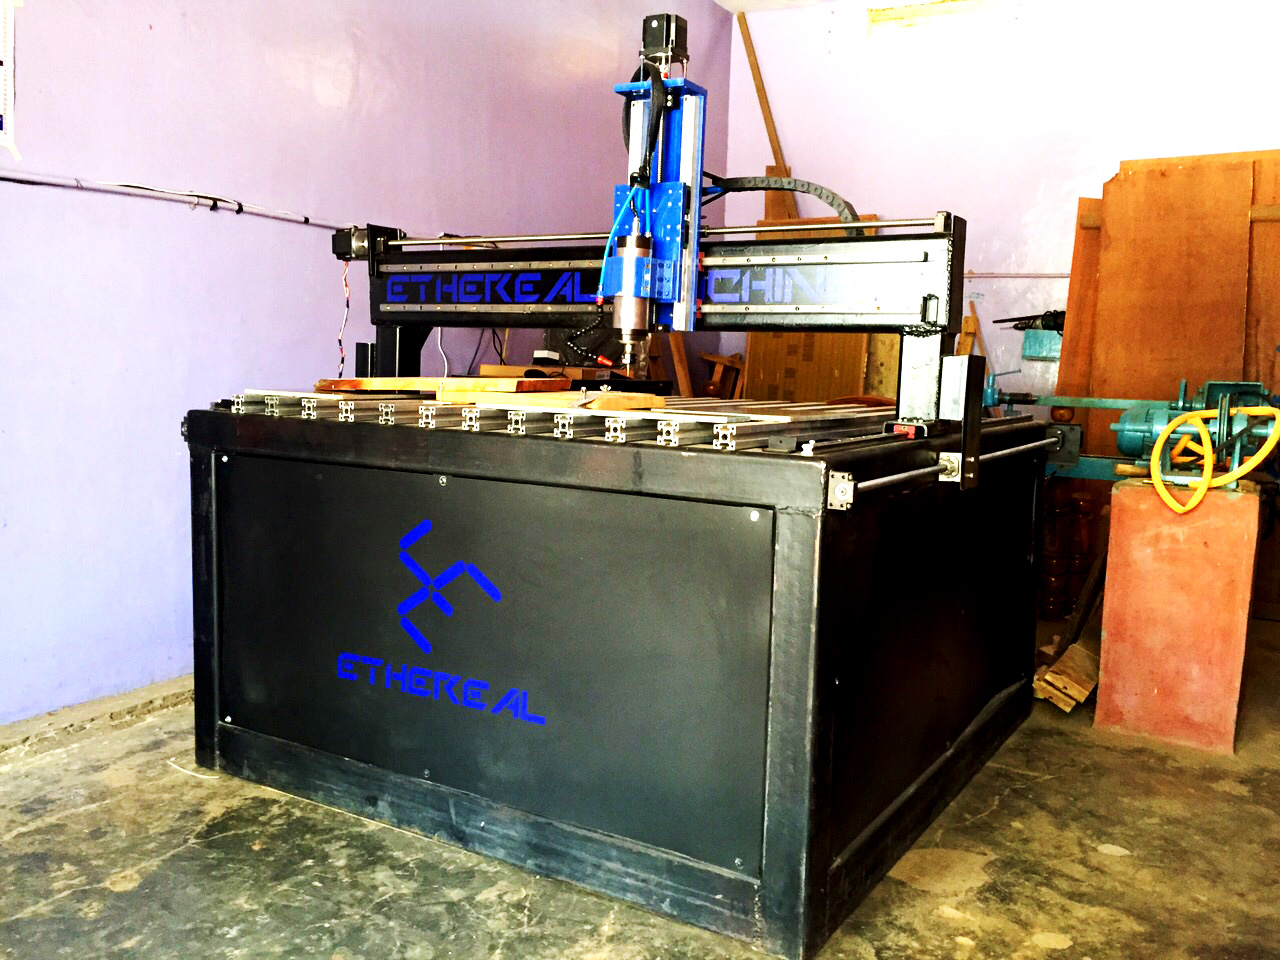
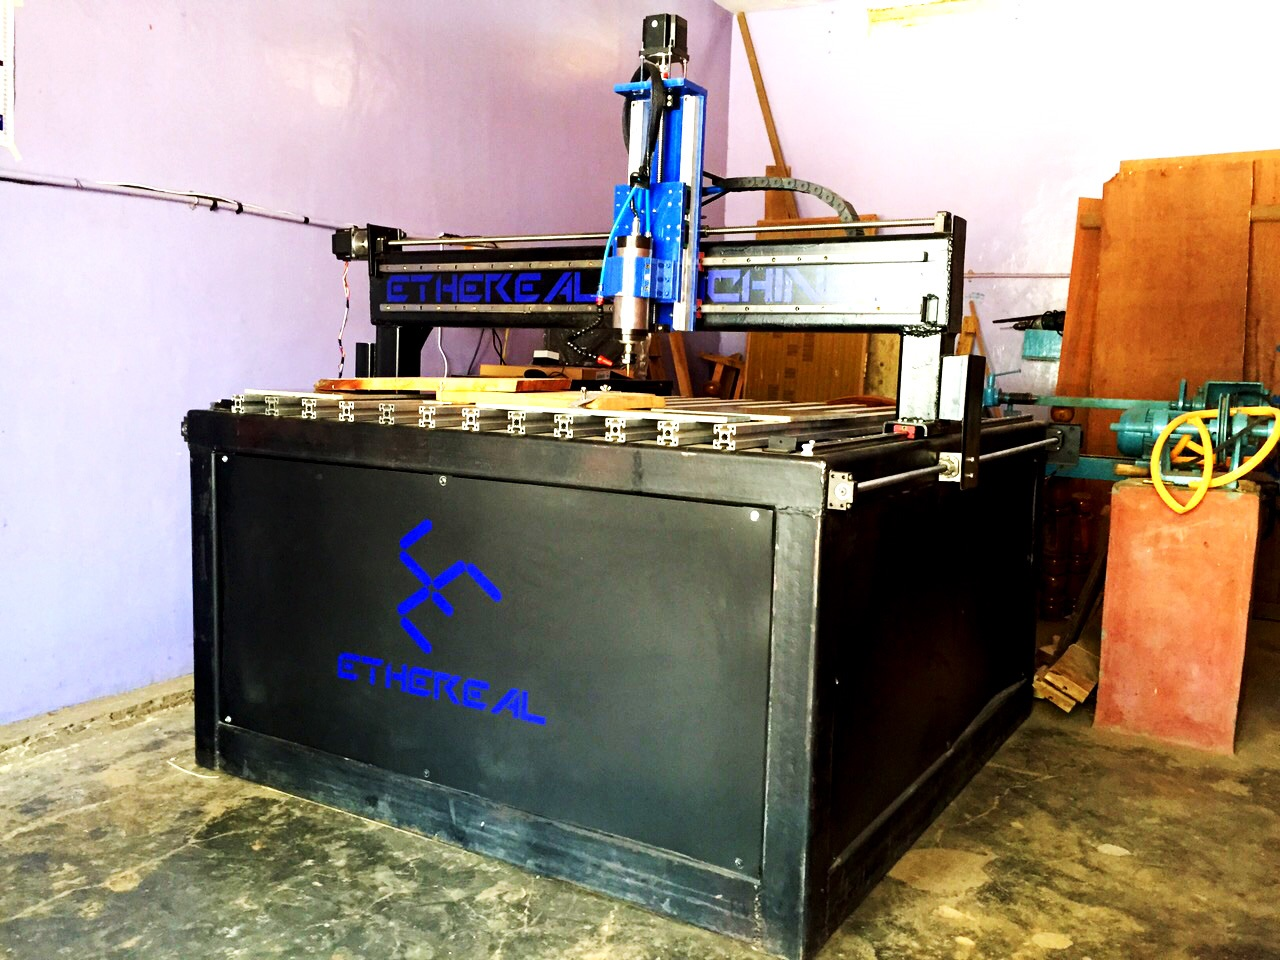
Changing Extension to CAPS

diff --git a/Products.html b/Products.html
@@ -164,7 +164,7 @@
 						</div>
 					</section>
 					<section class="col-2-5 productsAlign">
-						<figure><img src="images/compactplus.jpg" alt="Ethereal Compact Plus"></figure>
+						<figure><img src="images/CompactPlus.JPG" alt="Ethereal Compact Plus"></figure>
 					</section>
 				</div>
 				<!--div class="wrapper">
